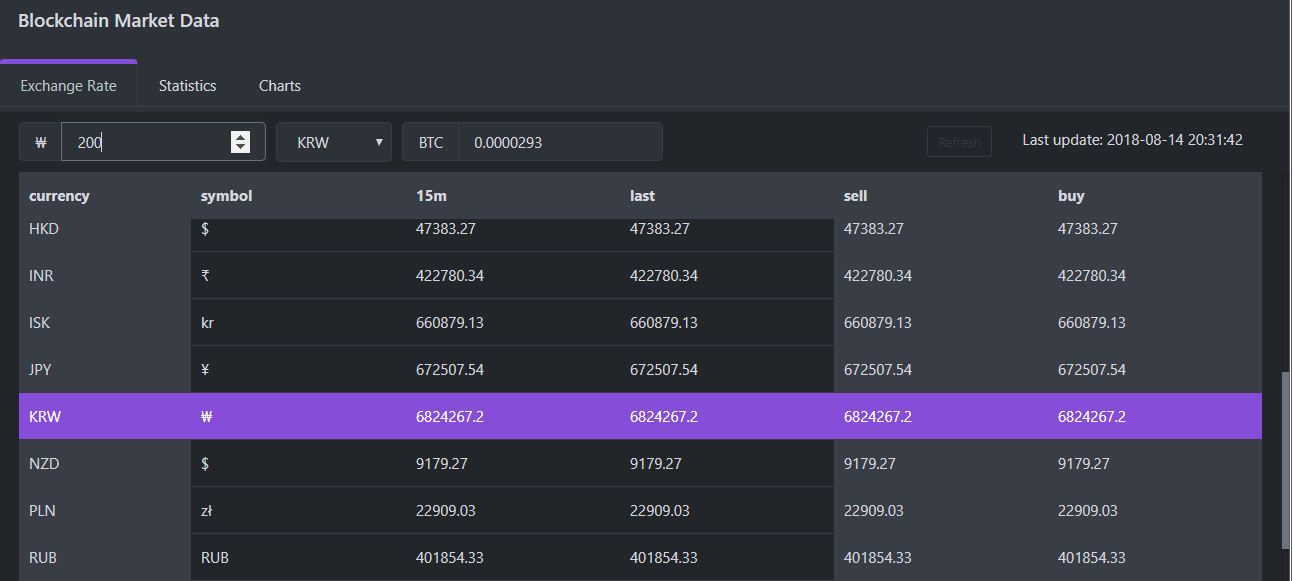
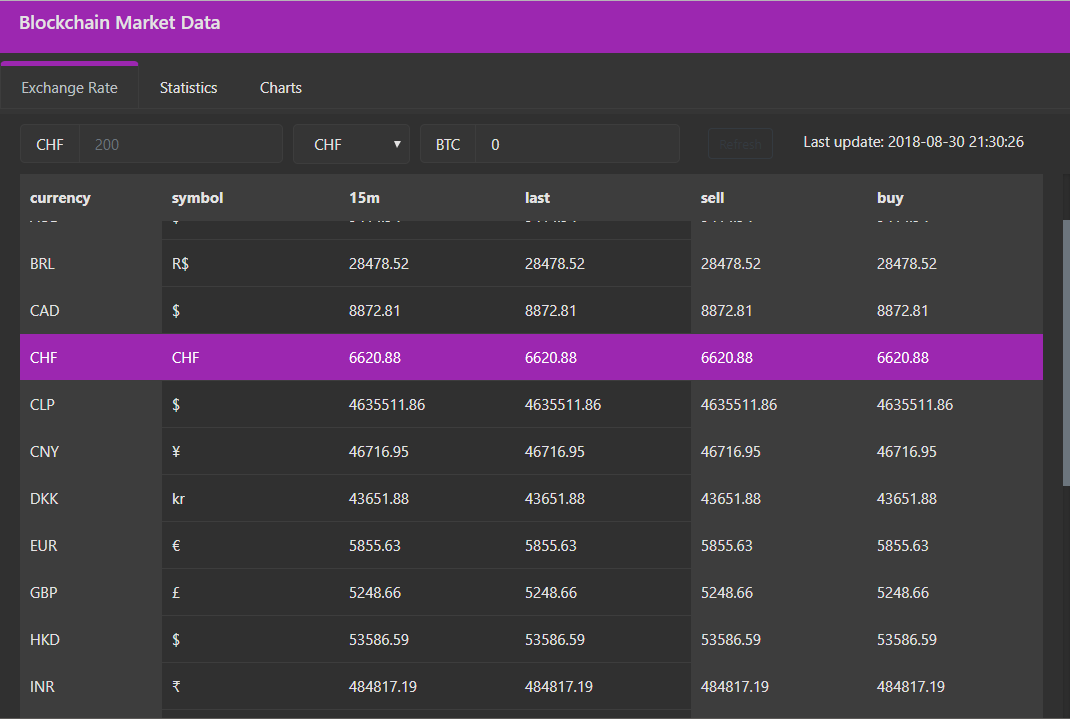
feat: ui refresh
Change ui look and feel to match material design
colors.

diff --git a/src/app/statistics/reducers/index.reducer.ts b/src/app/statistics/reducers/index.reducer.ts
@@ -90,10 +90,10 @@ const getChartsData = createSelector(chartsNode, (s) => {
             data: v.map((d) => d['y']),
             showSymbol: false,
             lineStyle: {
-              color: '#864DD9'
+              color: '#9c27b0'
             },
             areaStyle: {
-              color: '#3f2a5d'
+              color: '#9c27b0'
             }
           }
         ]

diff --git a/src/scss/_configuration.scss b/src/scss/_configuration.scss
@@ -1,9 +1,9 @@
 $color-palette: (
-  color-1: #864DD9,
-  color-2: lighten(#22252a, 5%),
-  color-3: lighten(#22252a, 70%),
-  color-4: lighten(#22252a, 10%),
-  color-5: #22252a
+  color-1: #9c27b0,
+  color-2: lighten(#303030, 2%),
+  color-3: lighten(#303030, 70%),
+  color-4: lighten(#303030, 5%),
+  color-5: #303030
 );
 
 $primary: map-get($color-palette, color-1);

diff --git a/src/app/core/containers/app.container.ts b/src/app/core/containers/app.container.ts
@@ -13,7 +13,7 @@ import { Observable } from 'rxjs';
 @Component({
   selector: 'bmd-core-app-container',
   template: `
-    <nav class="navbar flex-md-nowrap p-0">
+    <nav class="o-navbar navbar flex-md-nowrap p-0">
       <h1 class="navbar-brand col-sm-3 col-md-2 mr-0">Blockchain Market Data</h1>
     </nav>
     <div class="c-main">

diff --git a/src/scss/_components.scss b/src/scss/_components.scss
@@ -8,6 +8,10 @@
   }
 }
 
+.o-navbar {
+  background: map-get($color-palette, color-1);
+}
+
 .c-chart {
   width: 100%;
   min-height: 200px;
